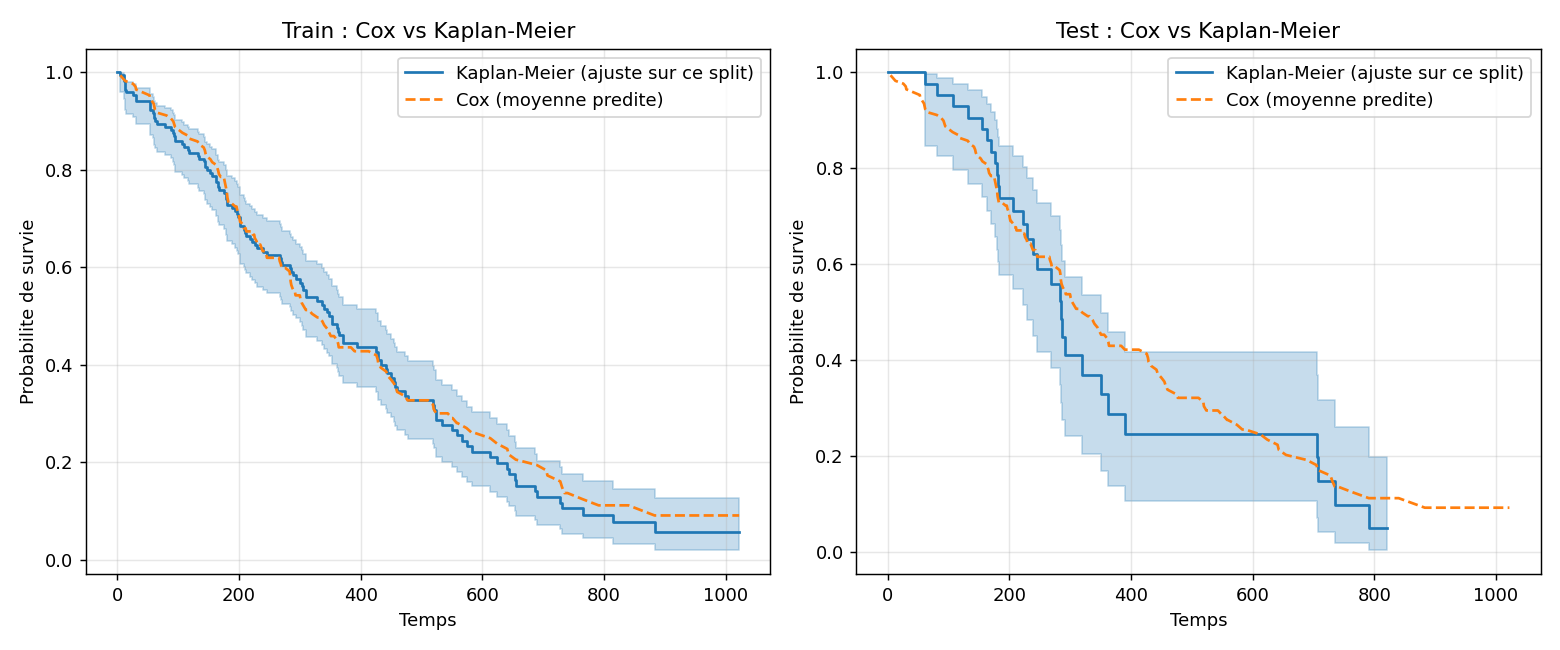
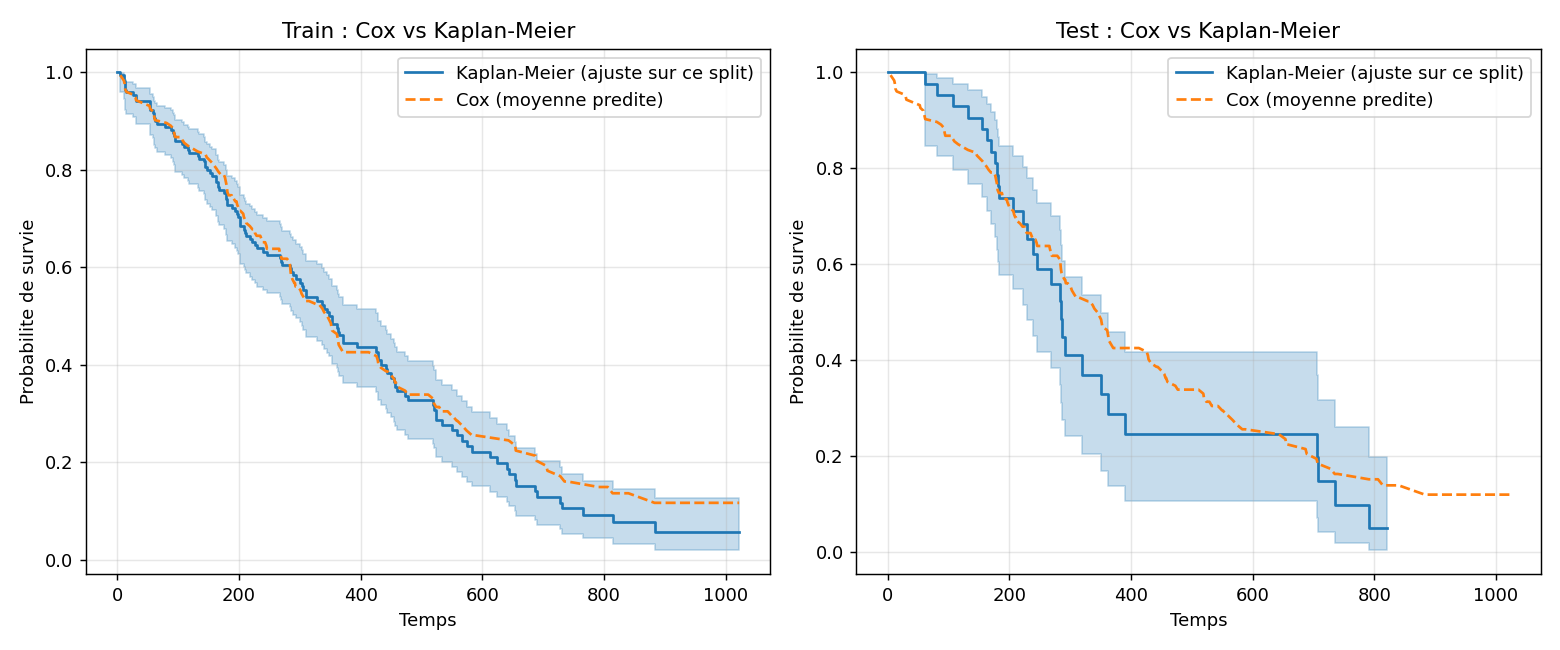
Added Cox conclusions in README

diff --git a/app/models/Cox.py b/app/models/Cox.py
@@ -34,6 +34,9 @@ def Cox_lung():
     cph.fit(df_train, duration_col="time", event_col="event")
     cph.print_summary()
 
+    cph.check_assumptions(df_train, p_value_threshold=0.05)
+    print("check assumptions done")
+
     risk_train = cph.predict_partial_hazard(df_train)
     risk_test = cph.predict_partial_hazard(df_test)
 

diff --git a/README.md b/README.md
@@ -96,6 +96,19 @@ This could means that the mortality risk for men is approximately constant over 
 
 ![Cox vs Weibull models](./outputs/plots/cox_vs_wb.png)
 
+The Cox proportional hazards model was fitted on 170 patients, including 122 observed events and 48 censored observations.
+
+**Sex** was the strongest prognostic factor (HR = 0.53, p < 0.001). According to the dataset coding (1 = male, 2 = female), women exhibited approximately 47% lower instantaneous mortality risk than men.
+**ECOG** performance status significantly increased mortality (HR = 1.57, p < 0.001), meaning that each additional ECOG point increased the hazard by approximately 57%.
+**Age** had a smaller but significant effect (HR = 1.03, p = 0.02), corresponding to an increase of roughly 3% in mortality risk per additional year.
+**Weight** loss was not statistically significant (p = 0.20) after adjustment for the other variables.
+
+These findings are consistent with the previous Kaplan–Meier and Weibull analyses. Women showed a substantially longer median survival (426 vs 270 days) and higher survival probability at 300 days (67.4% vs 44.1%), supporting the Cox model estimates.
+
+The decrease from 0.659 (train) to 0.553 (test) suggests moderate overfitting, although the cross-validation score indicates acceptable stability across folds.
+
+Finally, the proportional hazards assumption was assessed using Schoenfeld residuals. Only the variable sex showed a significant deviation (p = 0.028), suggesting that its effect may vary over time. Therefore, the estimated hazard ratio for sex should be interpreted as an average effect over the follow-up period. The proportional hazards assumption was satisfied for the remaining covariates.
+
 **Why a separation between services / models / API layers**
 The architecture follows a modular design to improve maintainability, scalability, and testability:
 - `models/` handles statistical and ML logic
